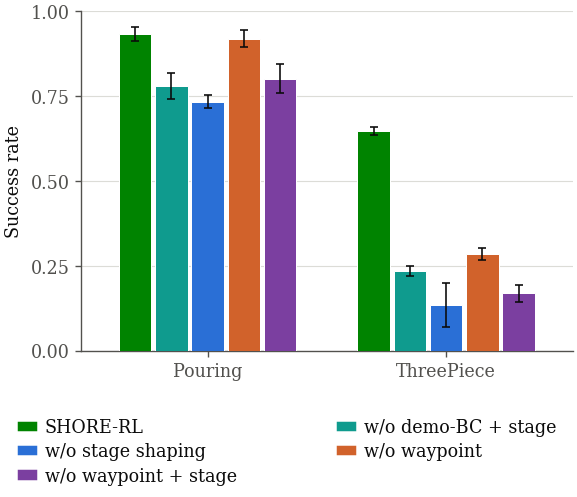
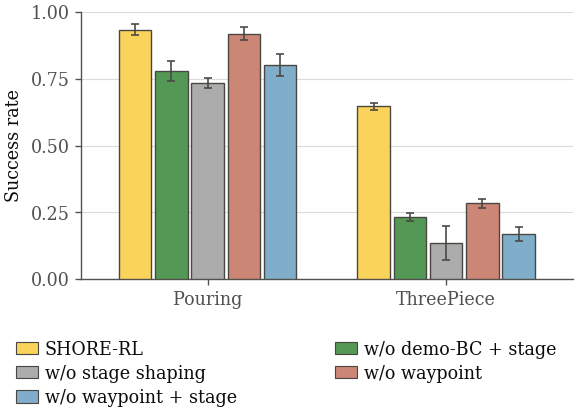
fig: match Figure 5 reference palette

diff --git a/paper/plot_ablation_bars_400k.py b/paper/plot_ablation_bars_400k.py
@@ -21,29 +21,30 @@ ENT = "674575221-beijing-institute-of-technology"
 CR = "dexmg-chunk-residual"
 BUDGET = 400_000
 WINDOW_STEPS = tuple(range(330_000, BUDGET + 1, 10_000))
-FIGSIZE_INCHES = (3.35, 2.75)
+FIGSIZE_INCHES = (3.35, 2.30)
 FONT_SIZE_PT = 7
+BAR_EDGE_COLOR = "#4A4742"
 
 STY = {
     "full": {
         "label": "SHORE-RL",
-        "color": "#008300",
+        "color": "#FAD35B",
     },
     "no_staged": {
         "label": "w/o stage shaping",
-        "color": "#2a6fd6",
+        "color": "#ABACAB",
     },
     "no_subgoal": {
         "label": "w/o waypoint",
-        "color": "#d1622b",
+        "color": "#CC8675",
     },
     "no_both": {
         "label": "w/o waypoint + stage",
-        "color": "#7b3fa0",
+        "color": "#80AECA",
     },
     "subgoal_only": {
         "label": "w/o demo-BC + stage",
-        "color": "#0f9b8e",
+        "color": "#539955",
     },
 }
 
@@ -228,8 +229,8 @@ def plot_summaries(summaries, out_pdf, out_png):
             means,
             width=bar_width * 0.90,
             color=STY[arm]["color"],
-            edgecolor="white",
-            linewidth=0.4,
+            edgecolor=BAR_EDGE_COLOR,
+            linewidth=0.55,
             zorder=3,
         )
         for x_pos, task, bar, values in zip(
@@ -245,7 +246,7 @@ def plot_summaries(summaries, out_pdf, out_png):
                     mean,
                     yerr=sem,
                     fmt="none",
-                    ecolor=ink,
+                    ecolor=BAR_EDGE_COLOR,
                     elinewidth=0.65,
                     capsize=1.6,
                     capthick=0.65,
@@ -279,7 +280,8 @@ def plot_summaries(summaries, out_pdf, out_png):
     legend_handles = [
         Patch(
             facecolor=STY[arm]["color"],
-            edgecolor="white",
+            edgecolor=BAR_EDGE_COLOR,
+            linewidth=0.45,
             label=STY[arm]["label"],
         )
         for arm in LEGEND_HANDLE_ORDER
@@ -290,7 +292,7 @@ def plot_summaries(summaries, out_pdf, out_png):
         ncol=2,
         frameon=False,
         fontsize=FONT_SIZE_PT,
-        bbox_to_anchor=(0.05, 0.015, 0.92, 0.22),
+        bbox_to_anchor=(0.05, 0.015, 0.92, 0.26),
         mode="expand",
         borderaxespad=0,
         columnspacing=0.8,
@@ -302,7 +304,7 @@ def plot_summaries(summaries, out_pdf, out_png):
         left=0.17,
         right=0.985,
         top=0.985,
-        bottom=0.30,
+        bottom=0.34,
     )
 
     out_pdf = Path(out_pdf)

diff --git a/paper/test_plot_ablation_bars_400k.py b/paper/test_plot_ablation_bars_400k.py
@@ -68,6 +68,19 @@ class FixedWindowMetricTest(unittest.TestCase):
 
 
 class FigureContractTest(unittest.TestCase):
+    def test_reference_palette_is_mapped_semantically(self):
+        expected = {
+            "full": "#FAD35B",
+            "subgoal_only": "#539955",
+            "no_staged": "#ABACAB",
+            "no_subgoal": "#CC8675",
+            "no_both": "#80AECA",
+        }
+        self.assertEqual(
+            {arm: STY[arm]["color"] for arm in LEGEND_ORDER},
+            expected,
+        )
+
     def test_legend_visual_order_matches_bar_order(self):
         self.assertEqual(
             getattr(ablation_plot, "LEGEND_HANDLE_ORDER", None),
@@ -99,9 +112,8 @@ class FigureContractTest(unittest.TestCase):
     def test_plot_uses_single_column_physical_size(self):
         self.assertEqual(
             getattr(ablation_plot, "FIGSIZE_INCHES", None),
-            (3.35, 2.75),
+            (3.35, 2.30),
         )
-        self.assertLessEqual(ablation_plot.FIGSIZE_INCHES[1], 3.0)
 
     def test_inventory_matches_two_panel_figure_five_selection(self):
         self.assertEqual(
@@ -141,6 +153,20 @@ class FigureContractTest(unittest.TestCase):
             image = plt.imread(out_png)
             self.assertGreater(image.shape[1], 500)
             self.assertLess(image.shape[1], 700)
+            self.assertLess(image.shape[0], 440)
+            rgb = (image[:, :, :3] * 255).round().astype(int)
+            rendered_colors = {
+                tuple(color) for color in rgb.reshape(-1, 3)
+            }
+            for color in (
+                STY[arm]["color"] for arm in LEGEND_ORDER
+            ):
+                value = color.lstrip("#")
+                expected_rgb = tuple(
+                    int(value[index:index + 2], 16)
+                    for index in (0, 2, 4)
+                )
+                self.assertIn(expected_rgb, rendered_colors)
 
 
 if __name__ == "__main__":

diff --git a/docs/superpowers/specs/2026-07-25-method-reproducibility-design.md b/docs/superpowers/specs/2026-07-25-method-reproducibility-design.md
@@ -1,0 +1,261 @@
+# SHORE-RL Method Reproducibility Revision Design
+
+Date: 2026-07-25
+
+## Goal
+
+Revise the SHORE-RL method description so that the main paper is self-contained enough
+to answer reproducibility questions about the goal representation, waypoint target,
+future-state sampling, value/navigator losses, online/offline mixing, and potential
+reward storage. The paper must describe the implementation used by the headline runs
+rather than an idealized variant.
+
+## Source of Truth
+
+The implementation and headline run configurations are authoritative:
+
+- `resfit/rl_finetuning/chunk_residual/hiql_gc_value.py`
+- `resfit/rl_finetuning/chunk_residual/hiql_high_actor.py`
+- `resfit/rl_finetuning/chunk_residual/hiql_subgoal.py`
+- `resfit/rl_finetuning/chunk_residual/online_hiql_finetune.py`
+- `resfit/rl_finetuning/chunk_residual/online_hiql_store.py`
+- `resfit/rl_finetuning/chunk_residual/hiql_potential.py`
+- `resfit/rl_finetuning/chunk_residual/train_chunk_residual.py`
+- `resfit/rl_finetuning/off_policy/rl/q_agent.py`
+- `resfit/rl_finetuning/chunk_residual/chunk_env_wrapper.py`
+- `resfit/rl_finetuning/chunk_residual/offline_stage_replay.py`
+- the task-specific headline run scripts.
+
+Two existing main-paper statements are factually incorrect and must be replaced:
+
+1. The waypoint conditions both the residual actor and the TD3 critic. It is not
+   actor-only.
+2. The single-state potential value is frozen during residual RL. Its shaped reward is
+   computed before a transition is inserted into replay and is not recomputed when the
+   transition is sampled.
+
+## Scope
+
+### In scope
+
+- `paper/main.tex`, especially Sections 3, 4.1, 4.2, and 4.3.
+- `paper/aaai2027-unified-supp.tex`, especially Sections A.1--A.5, B.2--B.3, and C.5.
+- Cross-references, notation, equations, and short hyperparameter statements needed to
+  keep those two documents consistent.
+- Compilation and PDF-level verification of the main paper and supplement.
+
+### Out of scope
+
+- Figure 1 and every source asset used to build Figure 1. The authors will replace it
+  separately.
+- Experimental results, plots, tables, TODO values, references, and unrelated prose.
+- Changes to the RL implementation.
+- Changes to the scientific claims beyond what is required to make them match the
+  implementation.
+
+## Main-Paper Revision
+
+### Frozen representation and task goal
+
+Define the representation used by the value modules as a standardized
+visual-proprioceptive feature:
+
+\[
+e_t = \operatorname{Std}\!\left(
+[\operatorname{Pool}(\operatorname{Enc}_{\pi_b}(o_{\le t}));q_t]
+\right).
+\]
+
+For ACT, the visual component is the mean-pooled frozen encoder-token feature; for
+served pi0 policies it is the frozen prefix feature. The representation contains no
+simulator object pose in deployed configurations.
+
+Define the fixed task goal \(g_\star\) as a real demonstration terminal feature: among
+all demonstration terminal features, choose the one nearest their mean. This medoid
+avoids supplying the navigator with an averaged feature that was never observed.
+
+### Goal-conditioned value
+
+Describe the twin-head goal-conditioned value and its normalized bottleneck:
+
+\[
+z=\phi(e,g), \qquad \lVert z\rVert_2=\sqrt{d_z}, \qquad
+V_i(e,g)=v_i([e;\phi(e,g)]), \quad i\in\{1,2\}.
+\]
+
+The bottleneck dimension is \(d_z=10\). The goal-reaching convention is
+\(r_g=\mathbf 1[e=g]-1\), with bootstrap mask
+\(m_g=1-\mathbf 1[e=g]\). State the EMA target and expectile update compactly:
+
+\[
+y_g=r_g+\gamma m_g\min_i \bar V_i(e',g),
+\qquad
+\mathcal L_V=\sum_i
+\mathbb E\!\left[
+|\tau-\mathbf 1[y_g-V_i<0]|(y_g-V_i)^2
+\right].
+\]
+
+If the exact headline checkpoints use the per-head HIQL target rather than the shared
+minimum target, the equation must use the per-head form implemented by
+`value_loss_mode=hiql`; prose must not claim a shared-min target. The implementation
+inspection during execution will resolve the final notation from checkpoint/run
+configuration provenance.
+
+Goals are sampled as:
+
+- current feature with probability 0.2;
+- a same-trajectory future feature with probability 0.5;
+- a uniformly random dataset feature with probability 0.3.
+
+The future branch samples its temporal offset geometrically with parameter
+\(1-\gamma\), truncated at the trajectory terminal state.
+
+### Navigator
+
+The high-level navigator is a Gaussian policy
+\(\pi_h(z\mid e,g)\). Offline, it is trained by advantage-weighted regression toward the
+bottleneck of a realized future waypoint:
+
+\[
+\hat z_t=\phi(e_t,e_{w_t}), \qquad
+\mathcal L_h=-\mathbb E[
+\operatorname{clip}(\exp(\beta A_t),100)
+\log\pi_h(\hat z_t\mid e_t,g)].
+\]
+
+For the headline dual-arm configuration, the waypoint distance is \(k=15\), and the
+clamp-to-goal sampler uses \(w_t=\min(t+k,t_g)\) for a same-trajectory goal. The
+high-level random-goal probability is 0.3 and the offline advantage aggregates the two
+value heads by their mean.
+
+At deployment, the fixed task goal is \(g_\star\), and the waypoint is the navigator
+mean projected to the bottleneck sphere:
+
+\[
+z_t=\sqrt{d_z}\,
+\frac{\mathbb E[\pi_h(\cdot\mid e_t,g_\star)]}
+{\|\mathbb E[\pi_h(\cdot\mid e_t,g_\star)]\|_2+\epsilon}.
+\]
+
+### Actor and critic interfaces
+
+Correct the main paper to match the implementation:
+
+- residual actor:
+  \(\pi_{\mathrm{res}}(a_t^{\mathrm{res}}\mid
+  o_{\le t},a_t^b,z_t)\);
+- TD3 critic:
+  \(Q(o_{\le t},z_t,a_t)\), where \(a_t\) is the executed base-plus-residual action.
+
+The critic does not receive the base action as a separate input. Both actor and critic
+use their trainable multi-view encoder, which is distinct from the frozen base feature
+encoder used to construct \(e_t\).
+
+The reward path remains functionally separate in the limited sense that neither the
+stage detector nor the single-state potential constructs or scores the waypoint. The
+paper must not equate this separation with an actor-only waypoint interface.
+
+### Online joint update and replay mixtures
+
+In waypoint-enabled dual-arm runs:
+
+- the bottleneck encoder \(\phi\) remains frozen;
+- the two goal-conditioned value heads and \(\pi_h\) are updated;
+- updates start after 2,000 online transitions;
+- the value/navigator batch size is 256 with a 50/50 online/demonstration split;
+- online goals use geometric future sampling;
+- the online learning rates are \(10^{-5}\);
+- one joint value/navigator update is performed per environment decision after the
+  residual learner's UTD block, not once per individual critic update.
+
+This mixture is distinct from the residual TD3/RLPD batch, which also uses a 50/50
+online/demonstration split but has its own replay buffers and objectives.
+
+### Frozen single-state potential and replay semantics
+
+Define the separate single-state value \(V_p\) as an offline expectile value trained
+from demonstrations with terminal reward 1 and intermediate reward 0. It is frozen
+throughout residual RL.
+
+The potential is:
+
+\[
+\Phi(e)=cV_p(e), \qquad
+c=\frac{\max(K-1,1)}
+{\max(V_{\max}-V_{\min},10^{-6})}.
+\]
+
+The potential-shaped reward is:
+
+\[
+\tilde r_t=r_t+b[\gamma(1-d_t)\Phi(e_{t+1})-\Phi(e_t)].
+\]
+
+The implementation sets the next potential to zero for both termination and
+truncation. For online data, the shaped reward is computed during collection before the
+transition is inserted into replay. For demonstration data, it is computed once when
+the offline replay buffer is built. Because \(V_p\) is frozen, replay sampling does not
+recompute or update shaped rewards.
+
+Remove the gradient-update index \(u\), the claim that \(V_p\) is jointly updated, and
+the corresponding non-stationary-potential disclaimer from the main paper.
+
+## Supplement Revision
+
+The supplement already contains most implementation details. Revise only factual
+inconsistencies and omissions:
+
+- ensure all actor/critic interface statements agree with the implementation;
+- state that online navigator updates use fixed-\(k\) waypoint batches with geometric
+  goal sampling, while offline pretraining uses clamp-to-goal targets;
+- replace “one joint update per residual-critic update” with the implemented schedule:
+  one joint update per environment decision after the four-update residual UTD block;
+- state explicitly that online and offline potential-shaped rewards are materialized
+  before replay insertion and never recomputed at replay sampling;
+- ensure the fixed \(V_p\), frozen \(\phi\), and trainable value-head/navigator sets are
+  identical in Sections A, B, and C;
+- preserve all unresolved experimental TODOs without inventing values.
+
+## Figure 1 Constraint
+
+Do not edit:
+
+- the Figure 1 image;
+- its SVG/PDF/PNG/PPTX sources;
+- its caption solely to force graphical consistency.
+
+The surrounding prose may become more accurate than the current figure. The authors
+will replace Figure 1 separately.
+
+## Verification
+
+1. Compile `paper/main.tex` to `paper/main.pdf`.
+2. Compile `paper/aaai2027-unified-supp.tex` to its PDF.
+3. Confirm both compilations exit successfully and report no undefined references.
+4. Extract text from both PDFs and scan for stale claims:
+   - waypoint enters only the actor;
+   - the critic does not receive the waypoint;
+   - \(V_p\) is updated during residual RL;
+   - shaped potential rewards are recomputed from a changing value.
+5. Scan for the required new facts:
+   - medoid terminal goal;
+   - 0.2/0.5/0.3 goal mixture;
+   - geometric future sampling;
+   - \(k=15\);
+   - frozen \(\phi\), trainable value heads and navigator;
+   - 50/50 online/offline joint-update batch;
+   - frozen \(V_p\);
+   - reward materialization before replay insertion.
+6. Check page count and visually inspect every modified main-paper page for overflow,
+   broken equations, or displaced figures.
+
+## Acceptance Criteria
+
+- The main paper answers each reproducibility concern without requiring source-code
+  inspection.
+- Every changed scientific statement matches the headline implementation.
+- Main paper and supplement agree on actor/critic inputs, trainable/frozen modules,
+  sampling, update schedules, and reward storage.
+- Figure 1 and its assets are untouched.
+- Both PDFs compile cleanly and remain readable.
